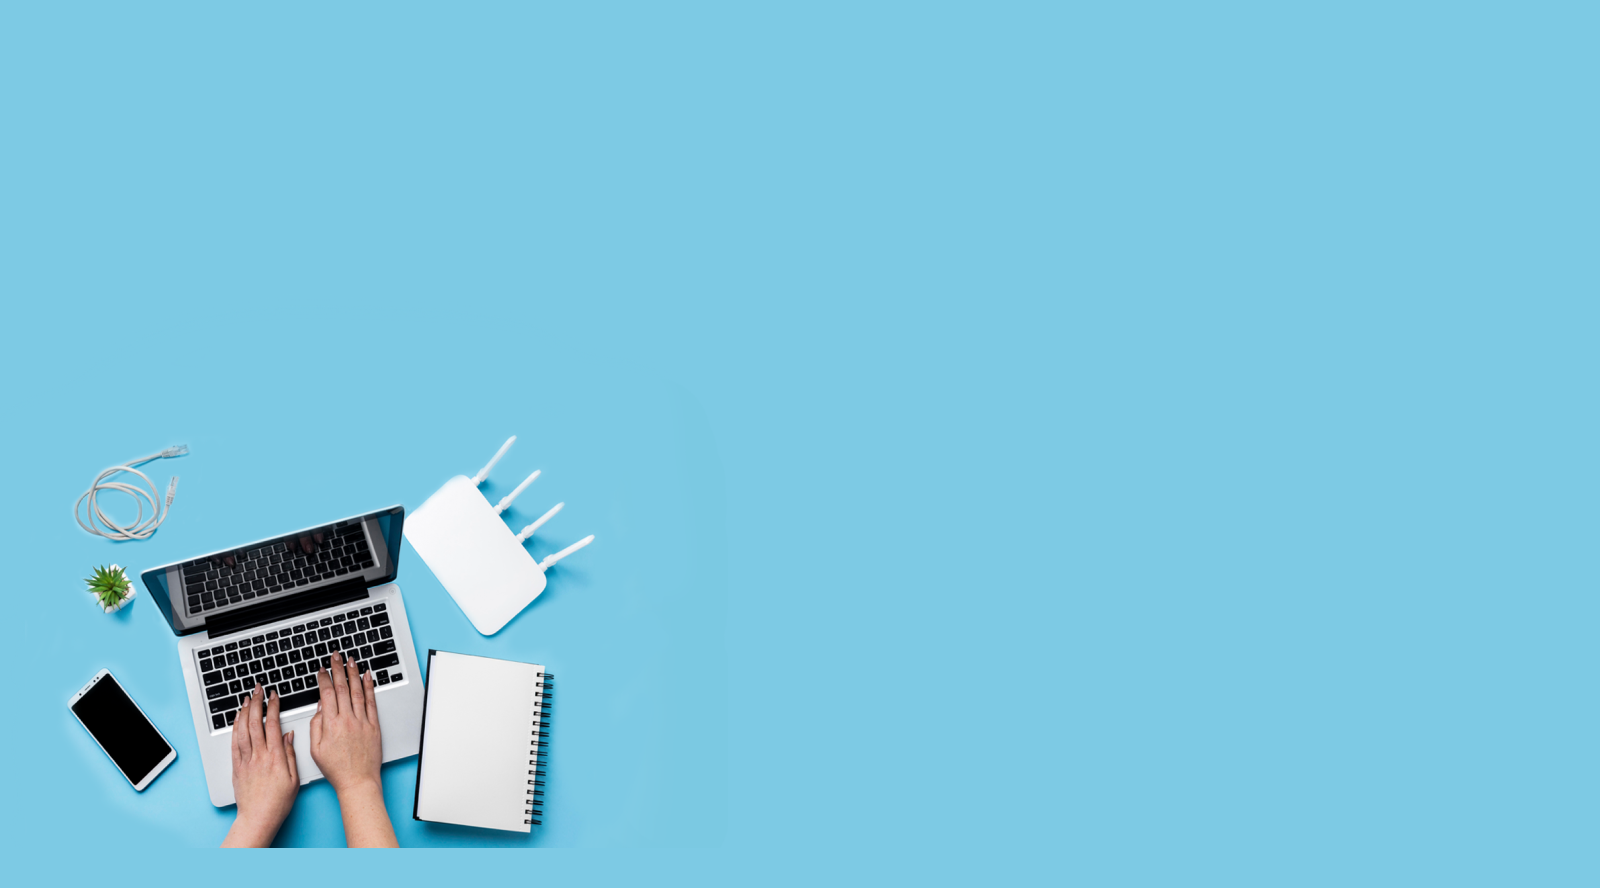
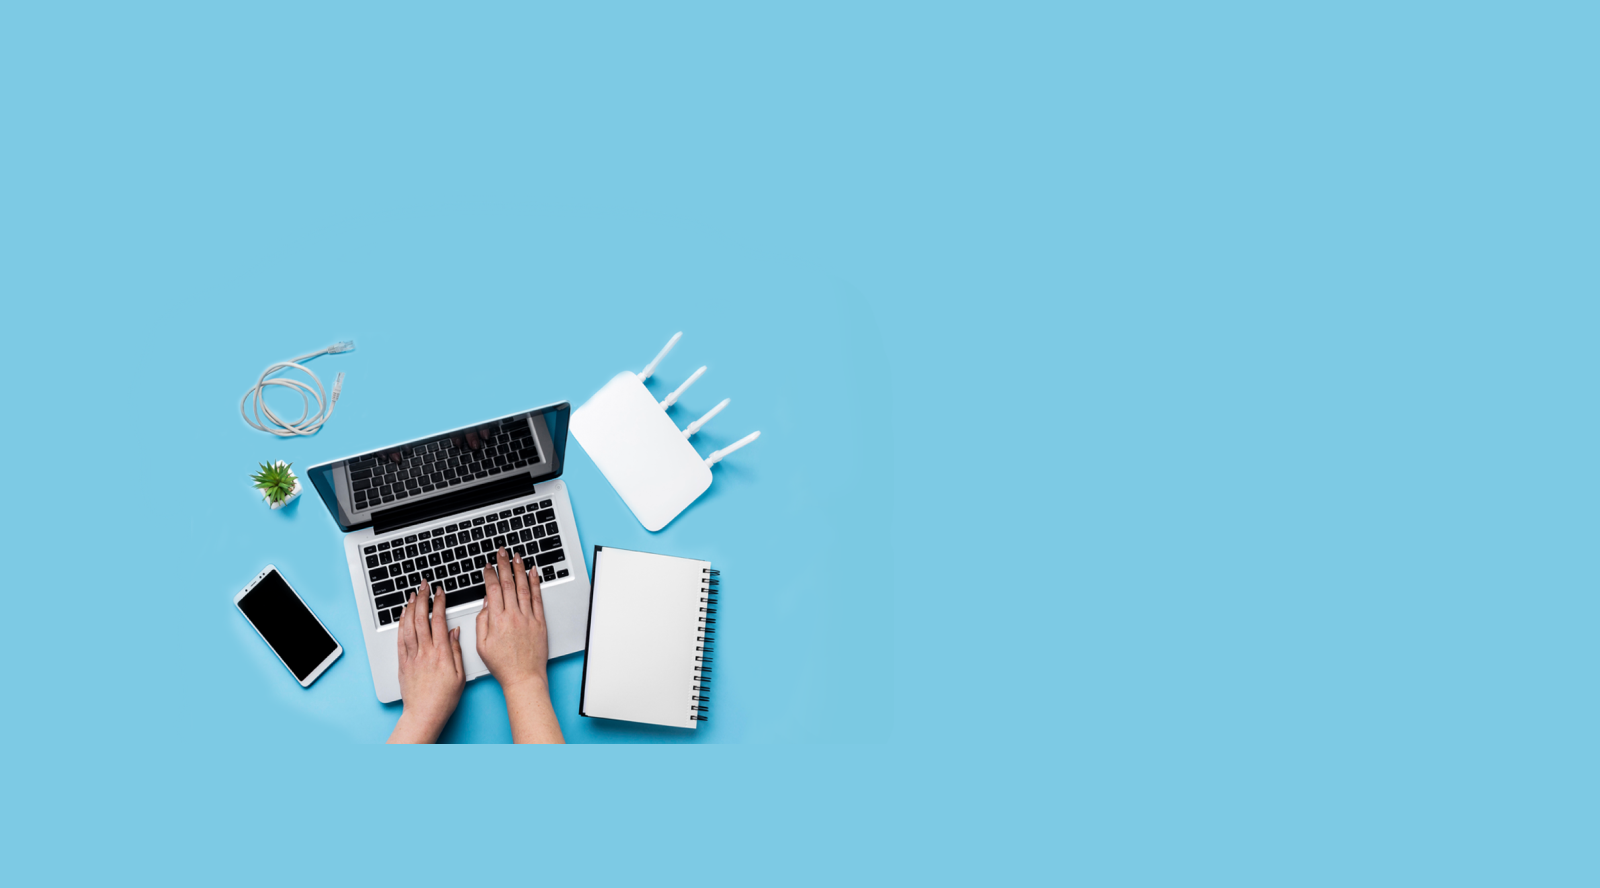
change

Changed region(s): [[0.0312, 0.3649, 0.4688, 0.973], [0.0938, 0.4865, 0.125, 0.5169]]

diff --git a/sass/main.css b/sass/main.css
@@ -1070,7 +1070,6 @@ body {
     padding-top: 0px;
     padding-bottom: 0px;
     background-repeat: no-repeat;
-    background-position: right;
     background-size: cover;
   }
   .internet-connection__description {
@@ -1197,12 +1196,12 @@ body {
 }
 @media screen and (min-width: 768px) {
   .form__internet-connection {
-    align-items: start;
+    align-items: end;
   }
 }
 @media screen and (min-width: 1200px) {
   .form__title {
-    text-align: left;
+    text-align: right;
   }
   .form__internet-connection {
     text-align: left;

diff --git a/sass/sections/_form.scss b/sass/sections/_form.scss
@@ -12,8 +12,7 @@
 padding-top: 0px;
 padding-bottom: 0px;
 	background-repeat: no-repeat;
-    background-position: right;
-	background-size: cover;
+   background-size: cover;
 }
 
 .internet-connection__description {
@@ -122,12 +121,12 @@ max-width: 600px;
 }
 @media screen and (min-width: 768px) {
 	.form__internet-connection {
-		align-items: start;
+		align-items: end;
 }
 }
 @media screen and (min-width: 1200px) {
 	.form__title {
-		text-align: left;
+		text-align: right;
 }
 .form__internet-connection {
 	text-align: left;
